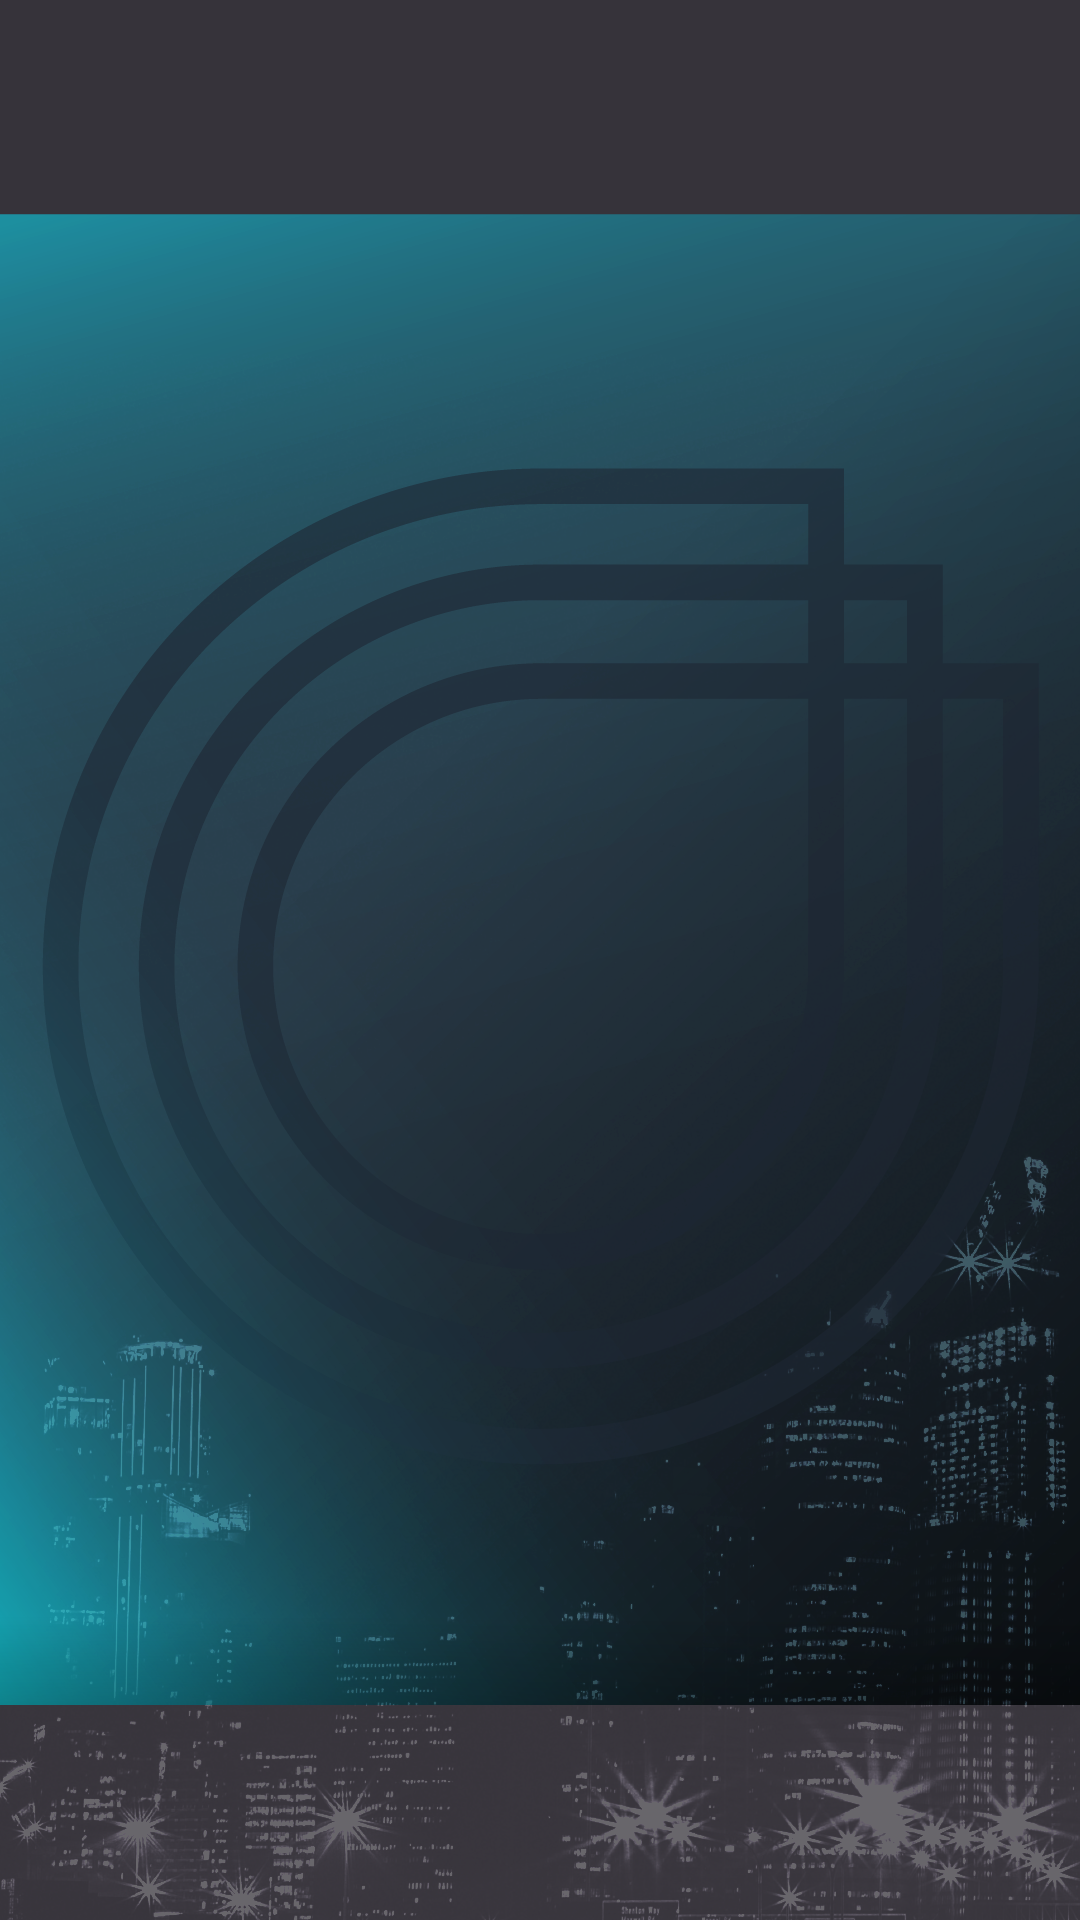
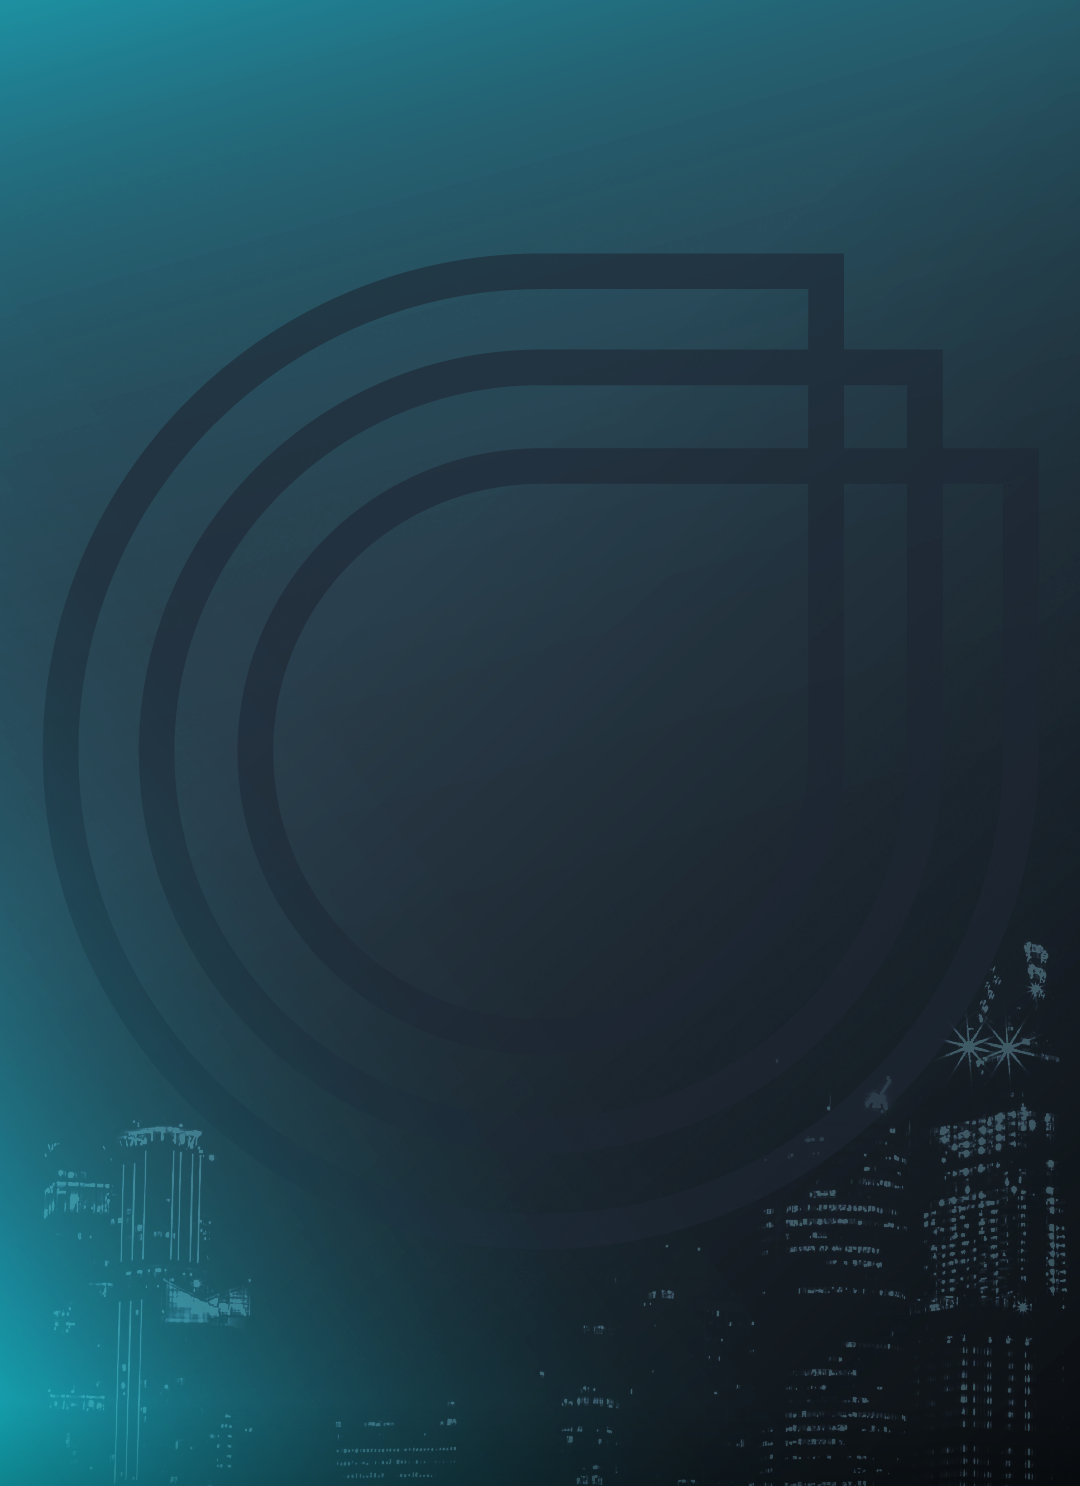
Fix streched background
Fix side effect by improving multi-resolution support.

Bug-AGL: SPEC-1611

diff --git a/imports/qtquickcontrols2aglstyle/ApplicationWindow.qml b/imports/qtquickcontrols2aglstyle/ApplicationWindow.qml
@@ -20,17 +20,16 @@ import QtQuick.Templates 2.0 as T
 
 T.ApplicationWindow {
     id: root
-    width: 1080
-    height: 1920 - 218 - 215
     visible: true
     flags: Qt.FramelessWindowHint
 
     font.family: 'Robota'
 
     background: Image {
-        anchors.fill: parent
-        anchors.topMargin:  -218
-        anchors.bottomMargin: -215
+        anchors {
+            fill: parent
+            centerIn: parent
+        }
         source: './images/AGL_HMI_Blue_Background_NoCar-01.png'
     }
 }
